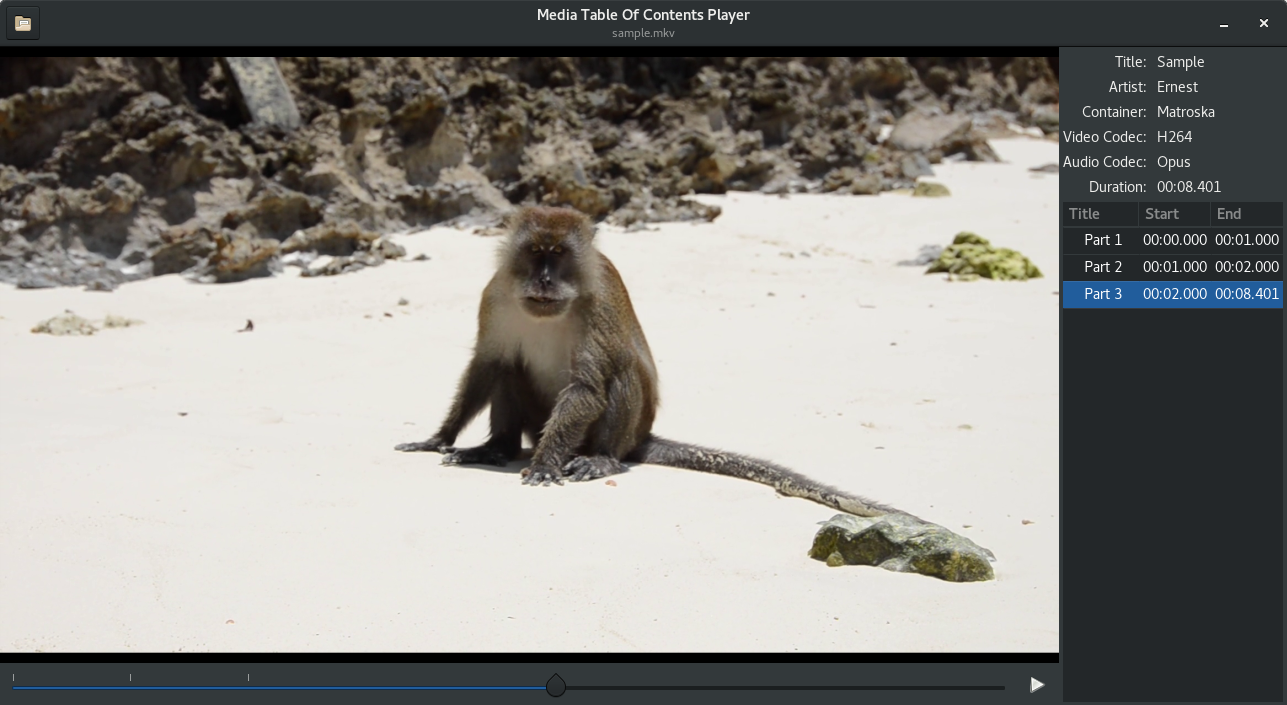
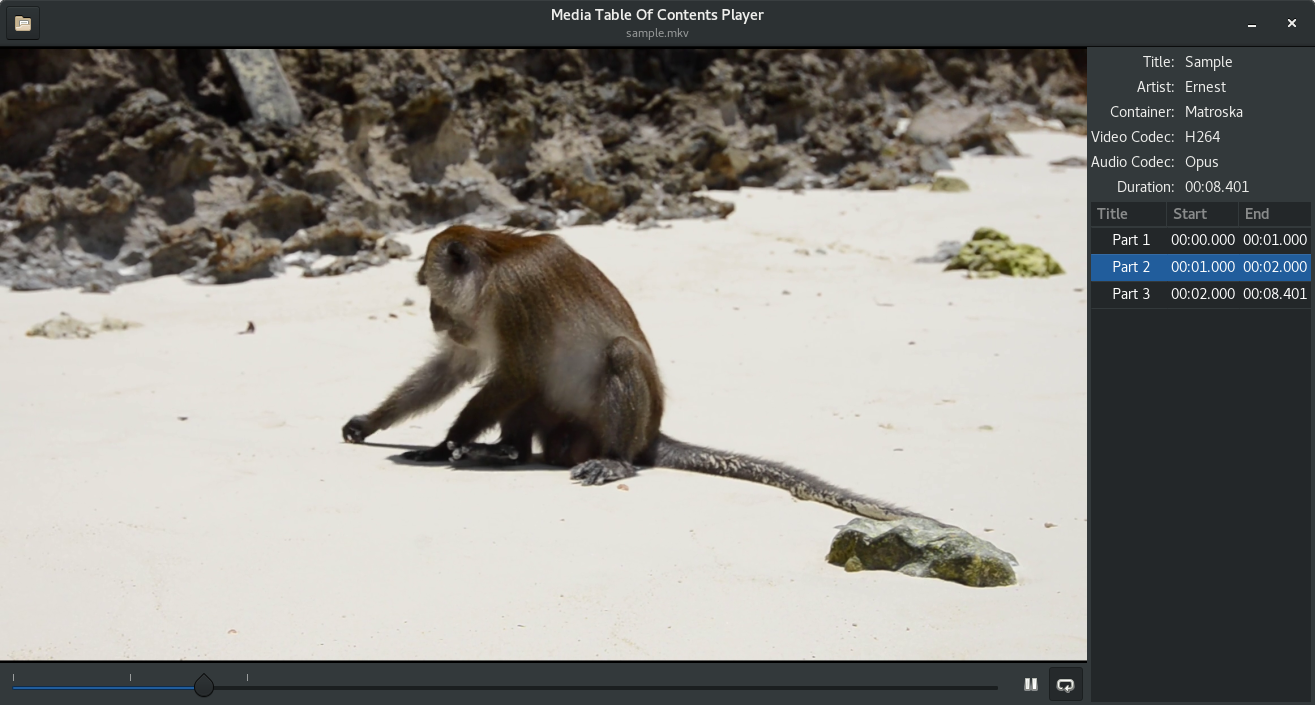
Allow looping on current chapter

diff --git a/src/ui/info_controller.rs b/src/ui/info_controller.rs
@@ -1,7 +1,11 @@
+extern crate cairo;
+
 extern crate gtk;
 use gtk::prelude::*;
 
-use std::rc::Rc;
+extern crate glib;
+
+use std::rc::{Rc, Weak};
 use std::cell::RefCell;
 
 use media::{Context, Timestamp};
@@ -23,22 +27,27 @@ pub struct InfoController {
     audio_codec_lbl: gtk::Label,
     video_codec_lbl: gtk::Label,
     duration_lbl: gtk::Label,
+
     timeline_scale: gtk::Scale,
+    repeat_button: gtk::ToggleToolButton,
 
     chapter_treeview: gtk::TreeView,
     chapter_store: gtk::TreeStore,
 
-    thumbnail: Rc<RefCell<Option<ImageSurface>>>,
+    thumbnail: Option<ImageSurface>,
 
     duration: u64,
     chapter_iter: Option<gtk::TreeIter>,
+    repeat_chapter: bool,
+
+    main_ctrl: Option<Weak<RefCell<MainController>>>,
 }
 
 impl InfoController {
-    pub fn new(builder: &gtk::Builder) -> Self {
+    pub fn new(builder: &gtk::Builder) -> Rc<RefCell<Self>> {
         // need a RefCell because the callbacks will use immutable versions of ac
         // when the UI controllers will get a mutable version from time to time
-        let mut this = InfoController {
+        let this_rc = Rc::new(RefCell::new(InfoController {
             drawingarea: builder.get_object("thumbnail-drawingarea").unwrap(),
 
             title_lbl: builder.get_object("title-lbl").unwrap(),
@@ -47,27 +56,47 @@ impl InfoController {
             audio_codec_lbl: builder.get_object("audio_codec-lbl").unwrap(),
             video_codec_lbl: builder.get_object("video_codec-lbl").unwrap(),
             duration_lbl: builder.get_object("duration-lbl").unwrap(),
+
             timeline_scale: builder.get_object("timeline-scale").unwrap(),
+            repeat_button: builder.get_object("repeat-toolbutton").unwrap(),
 
             chapter_treeview: builder.get_object("chapter-treeview").unwrap(),
             chapter_store: builder.get_object("chapters-tree-store").unwrap(),
 
-            thumbnail: Rc::new(RefCell::new(None)),
+            thumbnail: None,
 
             duration: 0,
             chapter_iter: None,
-        };
+            repeat_chapter: false,
 
-        this.cleanup();
+            main_ctrl: None,
+        }));
 
-        this.chapter_treeview.set_model(Some(&this.chapter_store));
-        this.add_chapter_column("Title", TITLE_COL as i32, true);
-        this.add_chapter_column("Start", START_STR_COL as i32, false);
-        this.add_chapter_column("End", END_STR_COL as i32, false);
+        {
+            let mut this = this_rc.borrow_mut();
+            this.cleanup();
 
-        this
+            this.chapter_treeview.set_model(Some(&this.chapter_store));
+            this.add_chapter_column("Title", TITLE_COL as i32, true);
+            this.add_chapter_column("Start", START_STR_COL as i32, false);
+            this.add_chapter_column("End", END_STR_COL as i32, false);
+
+            let this_clone = Rc::clone(&this_rc);
+            this.drawingarea.connect_draw(move |drawingarea, cairo_ctx| {
+                this_clone.borrow()
+                    .draw_thumbnail(drawingarea, cairo_ctx)
+                    .into()
+            });
+
+            let this_clone = Rc::clone(&this_rc);
+            this.repeat_button.connect_clicked(move |button| {
+                this_clone.borrow_mut().repeat_chapter =
+                    button.get_active();
+            });
+        }
+
+        this_rc
     }
-
 
     fn add_chapter_column(&self, title: &str, col_id: i32, can_expand: bool) {
         let col = gtk::TreeViewColumn::new();
@@ -82,7 +111,9 @@ impl InfoController {
         self.chapter_treeview.append_column(&col);
     }
 
-    pub fn register_callbacks(&self, main_ctrl: &Rc<RefCell<MainController>>) {
+    pub fn register_callbacks(&mut self, main_ctrl: &Rc<RefCell<MainController>>) {
+        self.main_ctrl = Some(Rc::downgrade(&main_ctrl));
+
         // Scale seek
         let main_ctrl_rc = Rc::clone(main_ctrl);
         self.timeline_scale.connect_change_value(move |_, _, value| {
@@ -101,43 +132,42 @@ impl InfoController {
                 main_ctrl_rc.borrow_mut().seek(position, true); // accurate (slow)
             }
         });
+    }
 
+    fn draw_thumbnail(&self,
+        drawingarea: &gtk::DrawingArea,
+        cairo_ctx: &cairo::Context,
+    ) -> Inhibit {
         // Thumbnail draw
-        let thumbnail_weak = Rc::downgrade(&self.thumbnail);
-        self.drawingarea.connect_draw(move |drawing_area, cairo_ctx| {
-            if let Some(thumbnail_rc) = thumbnail_weak.upgrade() {
-                let thumbnail_opt = thumbnail_rc.borrow();
-                if let Some(ref thumbnail) = *thumbnail_opt {
-                    let surface = &thumbnail.surface;
+        if let Some(ref thumbnail) = self.thumbnail {
+            let surface = &thumbnail.surface;
 
-                    let allocation = drawing_area.get_allocation();
-                    let alloc_ratio = f64::from(allocation.width)
-                        / f64::from(allocation.height);
-                    let surface_ratio = f64::from(surface.get_width())
-                        / f64::from(surface.get_height());
-                    let scale = if surface_ratio < alloc_ratio {
-                        f64::from(allocation.height)
-                        / f64::from(surface.get_height())
-                    }
-                    else {
-                        f64::from(allocation.width)
-                        / f64::from(surface.get_width())
-                    };
-                    let x = (
-                            f64::from(allocation.width) / scale - f64::from(surface.get_width())
-                        ).abs() / 2f64;
-                    let y = (
-                        f64::from(allocation.height) / scale - f64::from(surface.get_height())
-                        ).abs() / 2f64;
-
-                    cairo_ctx.scale(scale, scale);
-                    cairo_ctx.set_source_surface(surface, x, y);
-                    cairo_ctx.paint();
-                }
+            let allocation = drawingarea.get_allocation();
+            let alloc_ratio = f64::from(allocation.width)
+                / f64::from(allocation.height);
+            let surface_ratio = f64::from(surface.get_width())
+                / f64::from(surface.get_height());
+            let scale = if surface_ratio < alloc_ratio {
+                f64::from(allocation.height)
+                / f64::from(surface.get_height())
             }
+            else {
+                f64::from(allocation.width)
+                / f64::from(surface.get_width())
+            };
+            let x = (
+                    f64::from(allocation.width) / scale - f64::from(surface.get_width())
+                ).abs() / 2f64;
+            let y = (
+                f64::from(allocation.height) / scale - f64::from(surface.get_height())
+                ).abs() / 2f64;
 
-            Inhibit(true)
-        });
+            cairo_ctx.scale(scale, scale);
+            cairo_ctx.set_source_surface(surface, x, y);
+            cairo_ctx.paint();
+        }
+
+        Inhibit(true)
     }
 
     pub fn new_media(&mut self, context: &Context) {
@@ -145,16 +175,13 @@ impl InfoController {
 
         self.chapter_store.clear();
 
-        let mut has_image = false;
         {
             let mut info = context.info.lock()
                 .expect("Failed to lock media info in InfoController");
 
             if let Some(thumbnail) = info.thumbnail.take() {
                 if let Ok(image) = ImageSurface::from_aligned_image(thumbnail) {
-                    let mut thumbnail_ref = self.thumbnail.borrow_mut();
-                    *thumbnail_ref = Some(image);
-                    has_image = true;
+                    self.thumbnail = Some(image);
                 }
             };
 
@@ -199,7 +226,7 @@ impl InfoController {
             self.chapter_iter = self.chapter_store.get_iter_first();
         }
 
-        if has_image {
+        if self.thumbnail.is_some() {
             self.drawingarea.show();
             self.drawingarea.queue_draw();
         }
@@ -234,7 +261,7 @@ impl InfoController {
         self.audio_codec_lbl.set_text("");
         self.video_codec_lbl.set_text("");
         self.duration_lbl.set_text("00:00.000");
-        *self.thumbnail.borrow_mut() = None;
+        self.thumbnail = None;
         self.chapter_store.clear();
         self.timeline_scale.clear_marks();
         self.timeline_scale.set_value(0f64);
@@ -250,20 +277,35 @@ impl InfoController {
         );
     }
 
-    pub fn tick(&mut self, position: u64) {
+    pub fn tick(&mut self, position: u64, is_eos: bool) {
         self.timeline_scale.set_value(position as f64);
 
         let mut done_with_chapters = false;
 
         if let Some(current_iter) = self.chapter_iter.as_mut() {
-            if position < self.chapter_store.get_value(current_iter, START_COL as i32)
-                    .get::<u64>().unwrap()
+            let current_start =
+                self.chapter_store.get_value(current_iter, START_COL as i32)
+                    .get::<u64>().unwrap();
+            if position < current_start
             {   // before selected chapter
-                // (first chapter must start after the begining of the stream)
+                // (first chapter must start after the beginning of the stream)
                 return;
-            } else if position >= self.chapter_store.get_value(current_iter, END_COL as i32)
+            } else if is_eos
+                || position >= self.chapter_store.get_value(current_iter, END_COL as i32)
                     .get::<u64>().unwrap()
             {   // passed the end of current chapter
+                if self.repeat_chapter {
+                    // seek back to the beginning of the chapter
+                    let main_ctrl_weak = Weak::clone(self.main_ctrl.as_ref().unwrap());
+                    gtk::idle_add(move || {
+                        let main_ctrl_rc = main_ctrl_weak.upgrade()
+                            .expect("InfoController::tick can't upgrade main_ctrl while repeating chapter");
+                        main_ctrl_rc.borrow_mut().seek(current_start, true); // accurate
+                        glib::Continue(false)
+                    });
+                    return;
+                }
+
                 // unselect current chapter
                 self.chapter_treeview.get_selection()
                     .unselect_iter(current_iter);

diff --git a/src/ui/main_controller.rs b/src/ui/main_controller.rs
@@ -34,7 +34,7 @@ pub struct MainController {
     play_pause_btn: gtk::ToolButton,
 
     video_ctrl: VideoController,
-    info_ctrl: InfoController,
+    info_ctrl: Rc<RefCell<InfoController>>,
 
     context: Option<Context>,
     state: ControllerState,
@@ -89,7 +89,7 @@ impl MainController {
             // play/pause, etc.
 
             this_mut.video_ctrl.register_callbacks(&this);
-            this_mut.info_ctrl.register_callbacks(&this);
+            this_mut.info_ctrl.borrow_mut().register_callbacks(&this);
         }
 
         let open_btn: gtk::Button = builder.get_object("open-btn").unwrap();
@@ -165,7 +165,7 @@ impl MainController {
             // update position even though the stream
             // is not sync yet for the user to notice
             // the seek request in being handled
-            self.info_ctrl.seek(position);
+            self.info_ctrl.borrow_mut().seek(position);
 
             self.context.as_ref()
                 .expect("MainController::seek no context")
@@ -243,7 +243,7 @@ impl MainController {
                             Some(context.file_name.as_str())
                         );
 
-                        this_mut.info_ctrl.new_media(&context);
+                        this_mut.info_ctrl.borrow_mut().new_media(&context);
                         this_mut.video_ctrl.new_media(&context);
 
                         this_mut.context = Some(context);
@@ -256,10 +256,10 @@ impl MainController {
                             .expect("MainController::listener no context while getting position")
                             .get_position();
 
-                        this_mut.info_ctrl.update_duration(position);
+                        this_mut.info_ctrl.borrow_mut().update_duration(position);
                         this_mut.duration = Some(position);
 
-                        this_mut.info_ctrl.tick(position);
+                        this_mut.info_ctrl.borrow_mut().tick(position, true);
 
                         this_mut.handle_eos();
 
@@ -316,24 +316,31 @@ impl MainController {
                 .expect("MainController::tracker no context while getting position")
                 .get_position();
 
-            if !this_mut.seeking {
-                this_mut.info_ctrl.tick(position);
-            }
-
-            if let Some(duration) = this_mut.duration {
-                if position >= duration {
-                    if !this_mut.seeking {
-                        // this check is necessary as EOS is not sent
+            let is_eos =
+                if let Some(duration) = this_mut.duration {
+                    if position >= duration {
+                        if !this_mut.seeking {
+                            // this check is necessary as EOS is not sent
+                            // in case of a seek after EOS
+                            this_mut.handle_eos();
+                            this_mut.tracker_src = None;
+                            keep_going = false;
+                        }
+                        true
+                    } else if this_mut.seeking {
+                        // this check is necessary as AsyncDone is not sent
                         // in case of a seek after EOS
-                        this_mut.handle_eos();
-                        this_mut.tracker_src = None;
-                        keep_going = false;
+                        this_mut.seeking = false;
+                        true
+                    } else {
+                        false
                     }
-                } else if this_mut.seeking {
-                    // this check is necessary as AsyncDone is not sent
-                    // in case of a seek after EOS
-                    this_mut.seeking = false;
-                }
+                } else {
+                    false
+                };
+
+            if !this_mut.seeking {
+                this_mut.info_ctrl.borrow_mut().tick(position, is_eos);
             }
 
             glib::Continue(this_mut.keep_going && keep_going)
@@ -343,7 +350,7 @@ impl MainController {
     fn open_media(&mut self, filepath: PathBuf) {
         assert_eq!(self.listener_src, None);
 
-        self.info_ctrl.cleanup();
+        self.info_ctrl.borrow_mut().cleanup();
         self.header_bar.set_subtitle("");
 
         let (ctx_tx, ui_rx) = channel();

diff --git a/README.md b/README.md
@@ -1,6 +1,8 @@
 # media-toc-player [![Build Status](https://travis-ci.org/fengalin/media-toc-player.svg?branch=master)](https://travis-ci.org/fengalin/media-toc-player) [![Build status](https://ci.appveyor.com/api/projects/status/yc1gba3o1h69t3g3?svg=true)](https://ci.appveyor.com/project/fengalin/media-toc-player)
-media-toc-player is a media player with a table of contents which allows seeking
-to a given chapter. It is a simplication of [media-toc](https://github.com/fengalin/media-toc),
+**media-toc-player** is a media player with a table of contents which allows seeking
+to a given chapter and optionally looping on current chapter.
+
+**media-toc-player** is a simplication of [media-toc](https://github.com/fengalin/media-toc),
 an application to create and edit a table of contents from a media file. It is
 primarily developed in Rust on Linux, it can be built on Windows and should also
 work on macOS.
@@ -11,9 +13,8 @@ work on macOS.
 # Todo
 I intend to keep this application simple. These are the modifications that I
 forsee:
-- Allow hiding the chapter's list.
+- Allow hiding the chapters list.
 - Switch to full screen mode.
-- Loop on the selected chapter.
 - Display the cover image on the left for audio files.
 
 # Technologies
